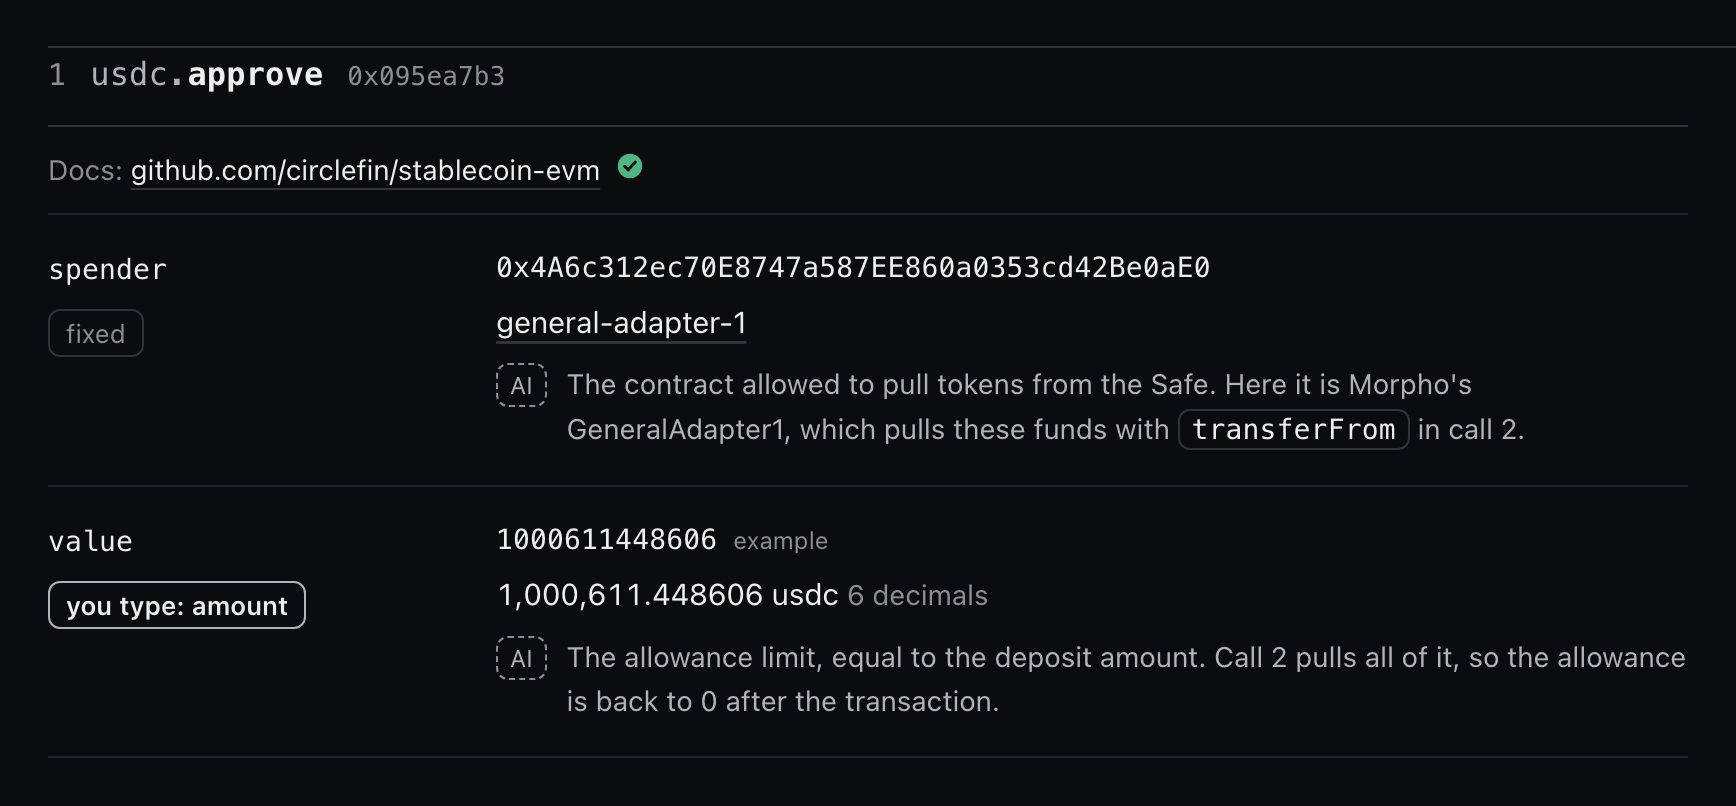
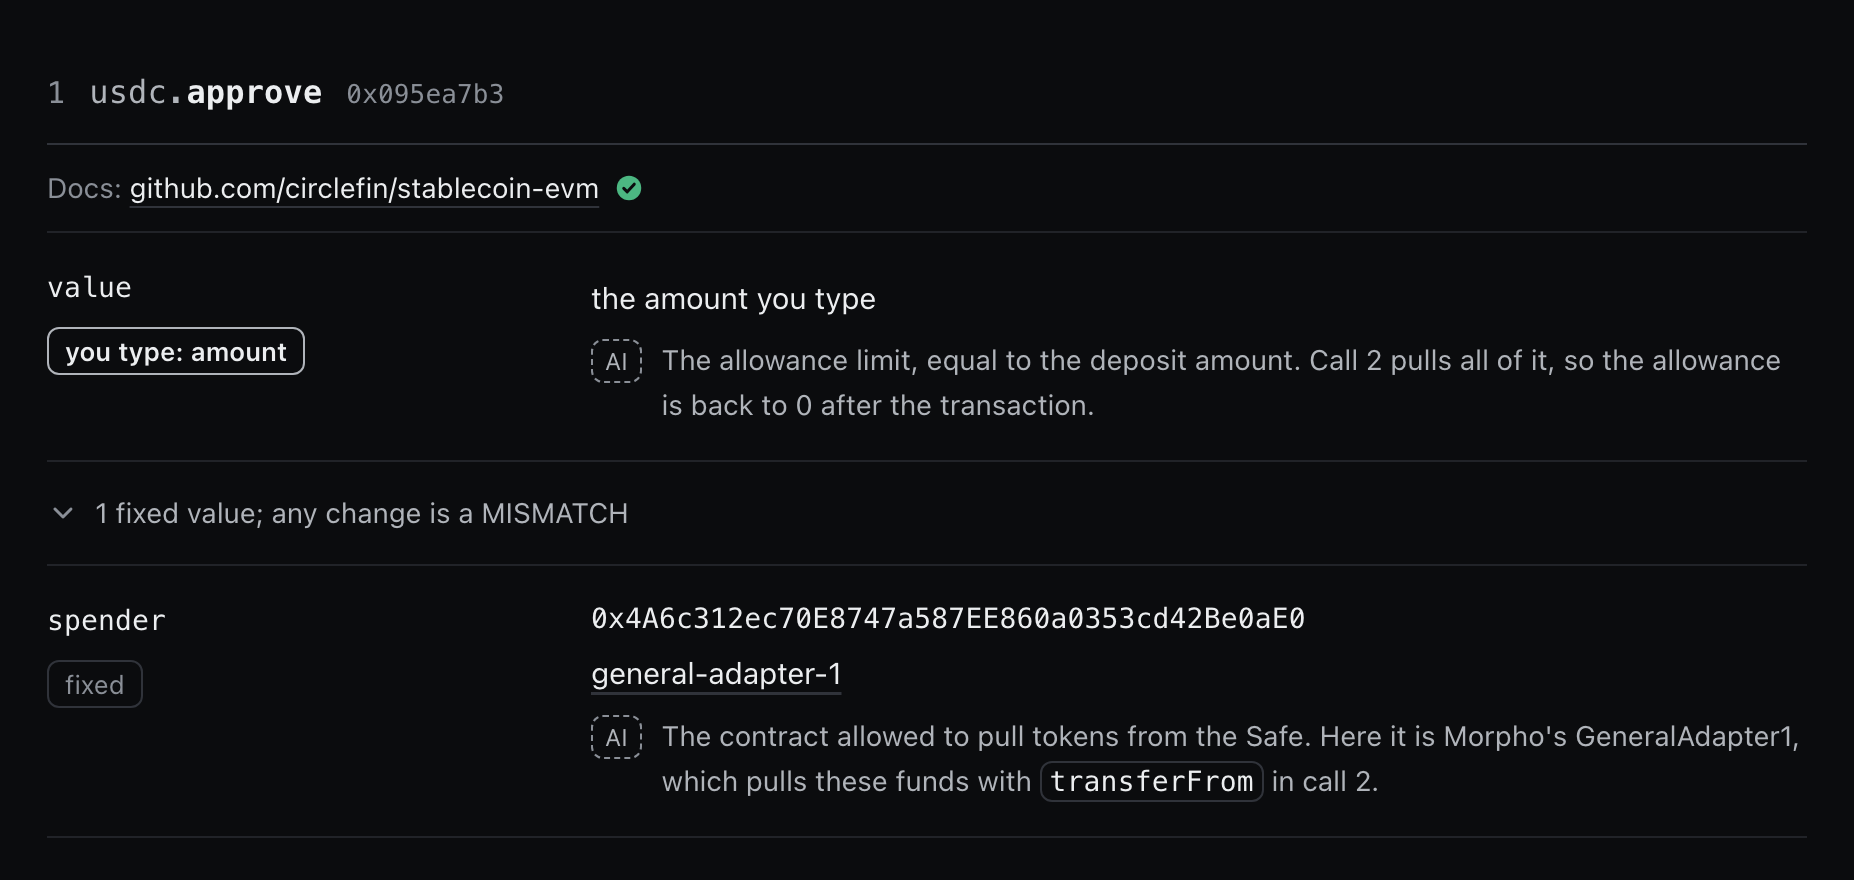
Reshoot the README's report crops from the re-recorded Hyperithm report
Claude-Session: https://claude.ai/code/session_019EpkRjVjhaQJT3pWCfk2Th

diff --git a/README.md b/README.md
@@ -115,7 +115,7 @@ The report shows what the transaction will do and where every fact came from. Te
 
 **Every field.** Each argument is fixed by the template, filled from your card, or, like a deadline or a route, left to the protocol's app within limits the template states.
 
-![The fields of usdc.approve in the report: spender is fixed to general-adapter-1 with its full address, and value is the amount you fill in](docs/readme/report-fields.png)
+![The fields of usdc.approve in the report: value is the amount you fill in, and spender, under the opened fold of fixed values, is fixed to general-adapter-1 with its full address](docs/readme/report-fields.png)
 
 **Every address.** Each place it was found, whether that site belongs to the protocol, and whether the newest version still lists it. This crop is from the CoW swap report. CoW's settlement contract is found in four sources, but places count by who owns them: two GitHub pages and the SDK all belong to CoW's GitHub organization, so with Immunefi it is confirmed in two places.
 
@@ -123,7 +123,7 @@ The report shows what the transaction will do and where every fact came from. Te
 
 Weak evidence is shown, not hidden. The Hyperithm vault was confirmed only by its factory, so the report flags it and lists it under To review, with the AI's suggestion: open the vault from the Morpho app's list, compare the address, and send a small amount first.
 
-![An address confirmed in only one place, the factory, flagged with low confidence: the Morpho app page could not be read, CoinGecko had nothing to compare, Immunefi's scope does not list it, and no deployer was proven](docs/readme/report-address-flagged.png)
+![An address confirmed in only one place, the factory, flagged with low confidence: the Morpho app page is not read because its URL holds the address, CoinGecko had nothing to compare, Immunefi's scope does not list it, and no deployer was proven](docs/readme/report-address-flagged.png)
 
 You review an operation once. After that you review only what changes: another vault's report, a registry pull request, or a changed template. Merging is your confirmation. Then approve the template on your own computer, which records its hash so `verify` refuses any other version:
 
